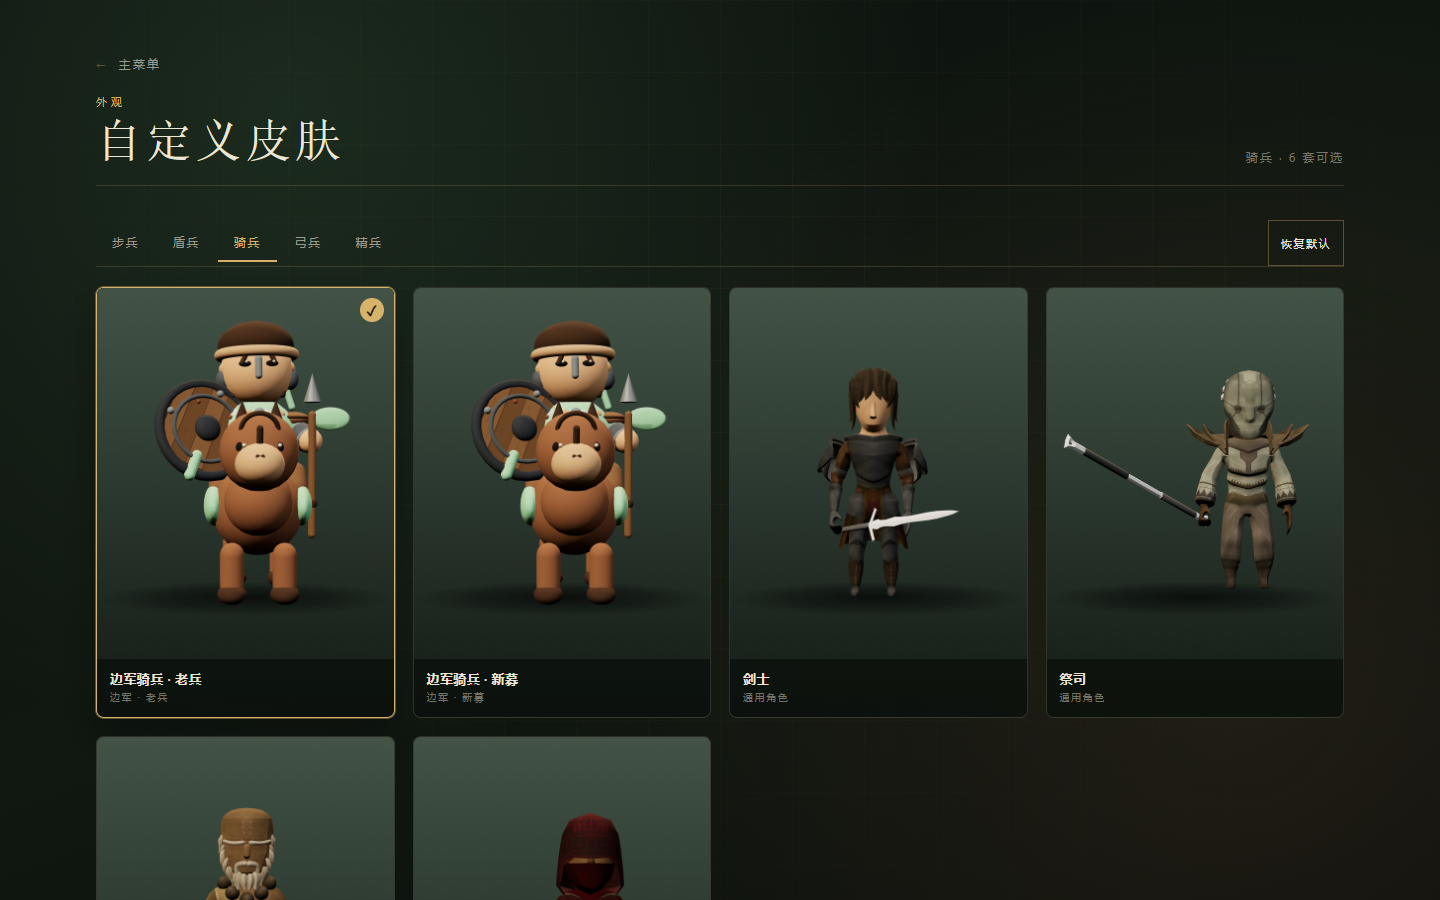
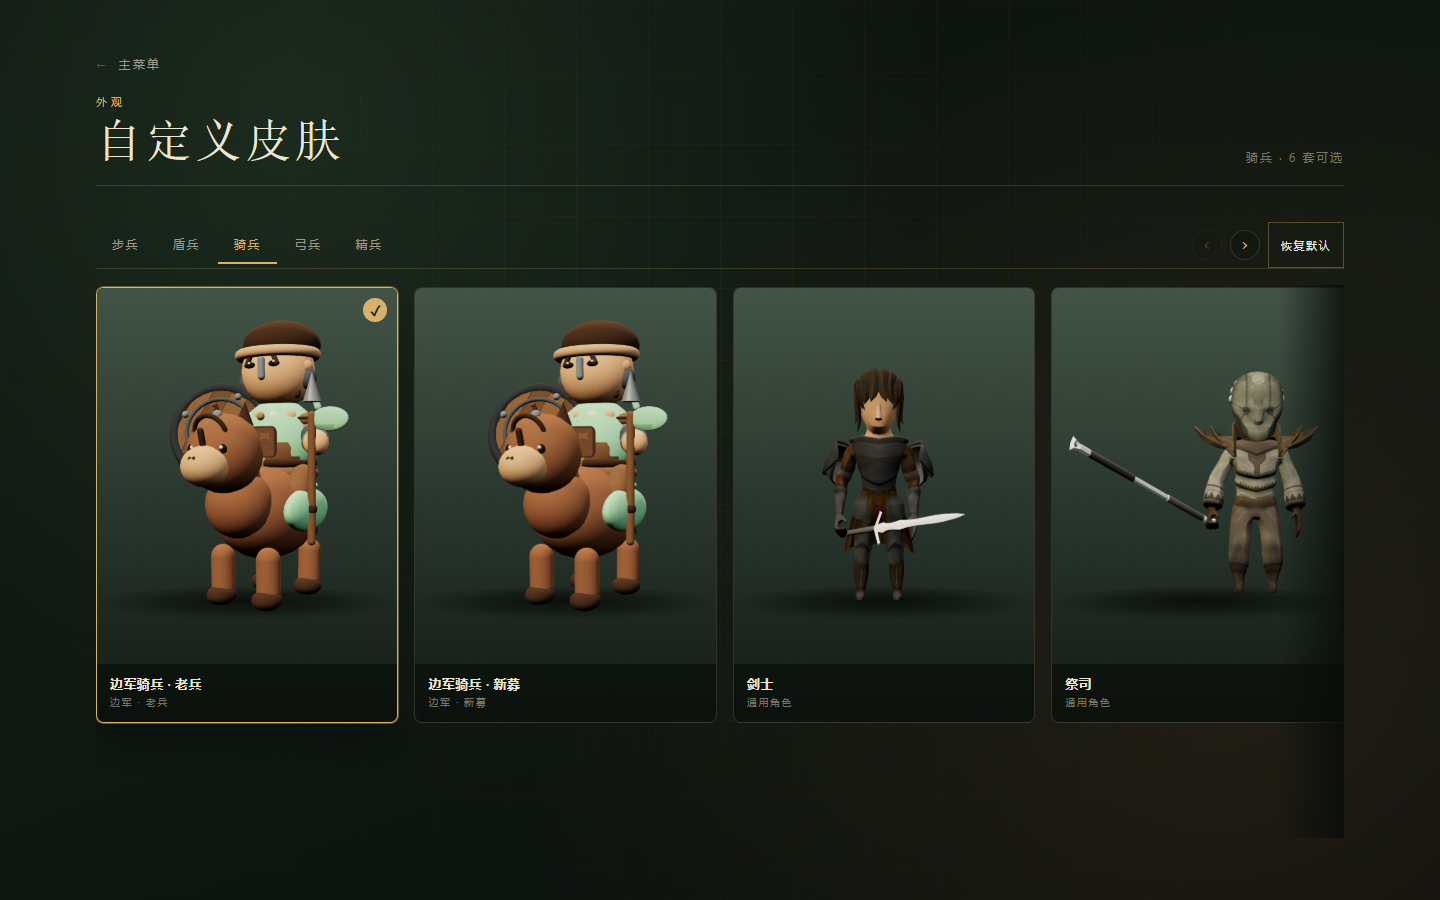
皮肤卡片改为单行横向滑动

diff --git a/apps/client/src/app.ts b/apps/client/src/app.ts
@@ -213,9 +213,15 @@ const TEMPLATE = `
     </header>
     <div class="skin-tab-row">
       <div class="skin-tabs" id="skin-tabs" role="tablist" aria-label="兵种"></div>
-      <button class="btn ghost skin-reset" id="btn-skin-reset">恢复默认</button>
+      <div class="skin-tab-actions">
+        <button class="skin-arrow" id="btn-skin-prev" aria-label="向左滑动">‹</button>
+        <button class="skin-arrow" id="btn-skin-next" aria-label="向右滑动">›</button>
+        <button class="btn ghost skin-reset" id="btn-skin-reset">恢复默认</button>
+      </div>
     </div>
-    <div class="skin-grid" id="skin-grid"></div>
+    <div class="skin-carousel" id="skin-carousel">
+      <div class="skin-grid" id="skin-grid"></div>
+    </div>
   </div>
 </section>
 
@@ -415,6 +421,9 @@ export class App {
     this.on("btn-skins", "click", () => this.openSkins());
     this.on("btn-skins-back", "click", () => this.show("menu"));
     this.on("btn-skin-reset", "click", () => this.resetSkin());
+    this.on("btn-skin-prev", "click", () => this.scrollSkins(-1));
+    this.on("btn-skin-next", "click", () => this.scrollSkins(1));
+    this.bindSkinCarousel();
     this.on("btn-exit", "click", () => this.showOverlay("exit-overlay"));
     this.on("btn-campaign-back", "click", () => this.show("menu"));
     this.on("btn-series-back", "click", () => this.show("campaign"));
@@ -1054,11 +1063,11 @@ export class App {
   }
 
   private openSkins(): void {
-    this.renderSkins();
+    this.renderSkins(true);
     this.show("skins");
   }
 
-  private renderSkins(): void {
+  private renderSkins(resetScroll = false): void {
     const tabs = this.el("skin-tabs");
     tabs.replaceChildren(
       ...UNIT_KINDS.map((kind) => {
@@ -1071,7 +1080,7 @@ export class App {
         button.textContent = UNIT_NAMES[kind];
         button.addEventListener("click", () => {
           this.skinKind = kind;
-          this.renderSkins();
+          this.renderSkins(true);
         });
         return button;
       }),
@@ -1080,9 +1089,89 @@ export class App {
     const skins = skinsForKind(this.skinKind);
     this.el("skin-count").textContent = `${UNIT_NAMES[this.skinKind]} · ${skins.length} 套可选`;
     const current = this.settings.unitSkins[this.skinKind];
-    this.el("skin-grid").replaceChildren(
+    const grid = this.el("skin-grid");
+    const offset = resetScroll ? 0 : grid.scrollLeft;
+    grid.replaceChildren(
       ...skins.map((skin) => this.buildSkinCard(skin, current === unitSkinAssetId(skin.key))),
     );
+    grid.scrollLeft = offset;
+    requestAnimationFrame(() => this.updateSkinScrollState());
+  }
+
+  private bindSkinCarousel(): void {
+    const grid = this.el("skin-grid");
+    grid.addEventListener("scroll", () => this.updateSkinScrollState(), { passive: true });
+    grid.addEventListener(
+      "wheel",
+      (event) => {
+        if (event.deltaY === 0 || grid.scrollWidth <= grid.clientWidth + 1) return;
+        event.preventDefault();
+        grid.scrollLeft += event.deltaY;
+      },
+      { passive: false },
+    );
+
+    let down = false;
+    let startX = 0;
+    let startLeft = 0;
+    let moved = false;
+    grid.addEventListener("pointerdown", (event) => {
+      if (event.pointerType !== "mouse" || event.button !== 0) return;
+      down = true;
+      moved = false;
+      startX = event.clientX;
+      startLeft = grid.scrollLeft;
+    });
+    grid.addEventListener("pointermove", (event) => {
+      if (!down) return;
+      const dx = event.clientX - startX;
+      if (!moved && Math.abs(dx) < 6) return;
+      if (!moved) {
+        moved = true;
+        // 只有真正拖动时才接管指针，普通点击仍交给卡片。
+        grid.setPointerCapture(event.pointerId);
+        grid.classList.add("dragging");
+      }
+      grid.scrollLeft = startLeft - dx;
+    });
+    const end = (event: PointerEvent): void => {
+      if (!down) return;
+      down = false;
+      grid.classList.remove("dragging");
+      if (grid.hasPointerCapture(event.pointerId)) grid.releasePointerCapture(event.pointerId);
+    };
+    grid.addEventListener("pointerup", end);
+    grid.addEventListener("pointercancel", end);
+    grid.addEventListener(
+      "click",
+      (event) => {
+        if (!moved) return;
+        event.preventDefault();
+        event.stopPropagation();
+        moved = false;
+      },
+      true,
+    );
+    window.addEventListener("resize", () => this.updateSkinScrollState());
+  }
+
+  private scrollSkins(direction: -1 | 1): void {
+    const grid = this.el("skin-grid");
+    const amount = Math.max(240, grid.clientWidth * 0.72);
+    grid.scrollBy({ left: direction * amount, behavior: "smooth" });
+  }
+
+  private updateSkinScrollState(): void {
+    const grid = this.el("skin-grid");
+    const carousel = this.el("skin-carousel");
+    if (!grid || !carousel) return;
+    const max = grid.scrollWidth - grid.clientWidth;
+    carousel.classList.toggle("can-prev", grid.scrollLeft > 4);
+    carousel.classList.toggle("can-next", max > 4 && grid.scrollLeft < max - 4);
+    const prev = this.el("btn-skin-prev") as HTMLButtonElement;
+    const next = this.el("btn-skin-next") as HTMLButtonElement;
+    prev.disabled = grid.scrollLeft <= 4;
+    next.disabled = max <= 4 || grid.scrollLeft >= max - 4;
   }
 
   private buildSkinCard(skin: UnitSkinDef, selected: boolean): HTMLElement {
@@ -1098,6 +1187,7 @@ export class App {
     image.src = `${import.meta.env.BASE_URL}skins/${skin.key}.png`;
     image.alt = `${skin.label}正面照`;
     image.loading = "lazy";
+    image.draggable = false;
     const check = document.createElement("span");
     check.className = "skin-card-check";
     check.textContent = "✓";
@@ -1127,7 +1217,7 @@ export class App {
     };
     saveSettings(this.settings);
     this.toast(`已选择 ${skin.label}`);
-    this.renderSkins();
+    this.renderSkins(false);
   }
 
   private resetSkin(): void {
@@ -1138,7 +1228,7 @@ export class App {
     this.settings = { ...this.settings, unitSkins: next };
     saveSettings(this.settings);
     this.toast(`${UNIT_NAMES[this.skinKind]}已恢复默认皮肤`);
-    this.renderSkins();
+    this.renderSkins(false);
   }
 
   private openSettings(): void {

diff --git a/apps/client/src/style.css b/apps/client/src/style.css
@@ -1483,7 +1483,10 @@ body.preview-mode #preview-canvas {
 }
 
 .skins-library {
+  display: flex;
+  flex-direction: column;
   max-width: 1360px;
+  overflow: hidden;
 }
 
 .skin-tab-row {
@@ -1491,8 +1494,9 @@ body.preview-mode #preview-canvas {
   align-items: center;
   justify-content: space-between;
   gap: 18px;
-  margin: 2px 0 20px;
+  margin: 2px 0 16px;
   border-bottom: 1px solid var(--line);
+  flex: 0 0 auto;
 }
 
 .skin-tabs {
@@ -1523,24 +1527,97 @@ body.preview-mode #preview-canvas {
   border-bottom-color: var(--gold);
 }
 
+.skin-tab-actions {
+  display: flex;
+  align-items: center;
+  gap: 8px;
+  flex: 0 0 auto;
+}
+
+.skin-arrow {
+  display: grid;
+  place-items: center;
+  width: 30px;
+  height: 30px;
+  padding: 0 0 2px;
+  border: 1px solid var(--line);
+  border-radius: 50%;
+  background: rgba(16, 22, 15, 0.72);
+  color: var(--gold);
+  font: 18px/1 Georgia, "Times New Roman", serif;
+  cursor: pointer;
+  transition: border-color 160ms ease, color 160ms ease, opacity 160ms ease;
+}
+
+.skin-arrow:hover:not(:disabled) {
+  border-color: rgba(214, 178, 106, 0.6);
+  color: #f6e1b5;
+}
+
+.skin-arrow:disabled {
+  opacity: 0.25;
+  cursor: default;
+}
+
 .skin-reset {
   flex: 0 0 auto;
   padding: 7px 12px;
   font-size: 11px;
 }
 
+.skin-carousel {
+  position: relative;
+  flex: 1 1 auto;
+  min-height: 0;
+}
+
+.skin-carousel::after {
+  content: "";
+  position: absolute;
+  top: 0;
+  right: 0;
+  bottom: 10px;
+  width: 64px;
+  background: linear-gradient(90deg, transparent, rgba(8, 12, 9, 0.82));
+  pointer-events: none;
+  opacity: 0;
+  transition: opacity 180ms ease;
+}
+
+.skin-carousel.can-next::after {
+  opacity: 1;
+}
+
 .skin-grid {
-  display: grid;
-  grid-template-columns: repeat(4, minmax(0, 1fr));
-  gap: 18px;
-  padding-bottom: 40px;
+  display: flex;
+  flex-wrap: nowrap;
+  align-items: flex-start;
+  gap: 16px;
+  height: 100%;
+  overflow-x: auto;
+  overflow-y: hidden;
+  padding: 2px 2px 10px;
+  scroll-snap-type: x proximity;
+  scrollbar-width: none;
+  cursor: grab;
+}
+
+.skin-grid::-webkit-scrollbar {
+  display: none;
+}
+
+.skin-grid.dragging {
+  cursor: grabbing;
+  scroll-snap-type: none;
 }
 
 .skin-card {
   appearance: none;
   display: flex;
+  flex: 0 0 clamp(240px, 21vw, 310px);
   flex-direction: column;
   padding: 0;
+  scroll-snap-align: start;
   border: 1px solid rgba(232, 215, 180, 0.16);
   border-radius: 8px;
   background: linear-gradient(180deg, rgba(22, 29, 22, 0.94), rgba(12, 17, 13, 0.98));
@@ -1814,19 +1891,23 @@ body.preview-mode #preview-canvas {
 }
 
 @media (max-width: 1080px) {
-  .skin-grid {
-    grid-template-columns: repeat(3, minmax(0, 1fr));
+  .skin-card {
+    flex-basis: 260px;
   }
 }
 
 @media (max-width: 780px) {
   .skin-grid {
-    grid-template-columns: repeat(2, minmax(0, 1fr));
-    gap: 14px;
+    gap: 12px;
+  }
+
+  .skin-card {
+    flex-basis: 76vw;
+    max-width: 300px;
   }
 
   .skin-tab-row {
-    align-items: flex-start;
+    align-items: stretch;
     flex-direction: column;
     gap: 8px;
   }
@@ -1839,5 +1920,13 @@ body.preview-mode #preview-canvas {
   .skin-tab {
     flex: 0 0 auto;
     padding: 10px 12px 11px;
+  }
+
+  .skin-tab-actions {
+    justify-content: flex-end;
+  }
+
+  .skin-arrow {
+    display: none;
   }
 }

diff --git a/tests/e2e/flow.spec.ts b/tests/e2e/flow.spec.ts
@@ -837,6 +837,16 @@ test("skin cards live on the home page and save the chosen look", async ({ page 
   await expect(page.locator("#skin-tabs .skin-tab")).toHaveCount(5);
   await expect(page.locator("#skin-grid .skin-card")).toHaveCount(7);
   await expect(page.locator("#skin-grid .skin-card img").first()).toHaveAttribute("src", /\/skins\//);
+  await expect(page.locator("#skin-grid")).toHaveCSS("flex-wrap", "nowrap");
+  const width = await page.locator("#skin-grid").evaluate((element) => ({
+    scroll: element.scrollWidth,
+    client: element.clientWidth,
+  }));
+  expect(width.scroll).toBeGreaterThan(width.client);
+  await page.click("#btn-skin-next");
+  await expect
+    .poll(() => page.locator("#skin-grid").evaluate((element) => element.scrollLeft))
+    .toBeGreaterThan(0);
 
   await page.click('.skin-card[data-skin-key="frontier-infantry-B"]');
   await expect(page.locator('.skin-card[data-skin-key="frontier-infantry-B"]')).toHaveClass(/selected/);
